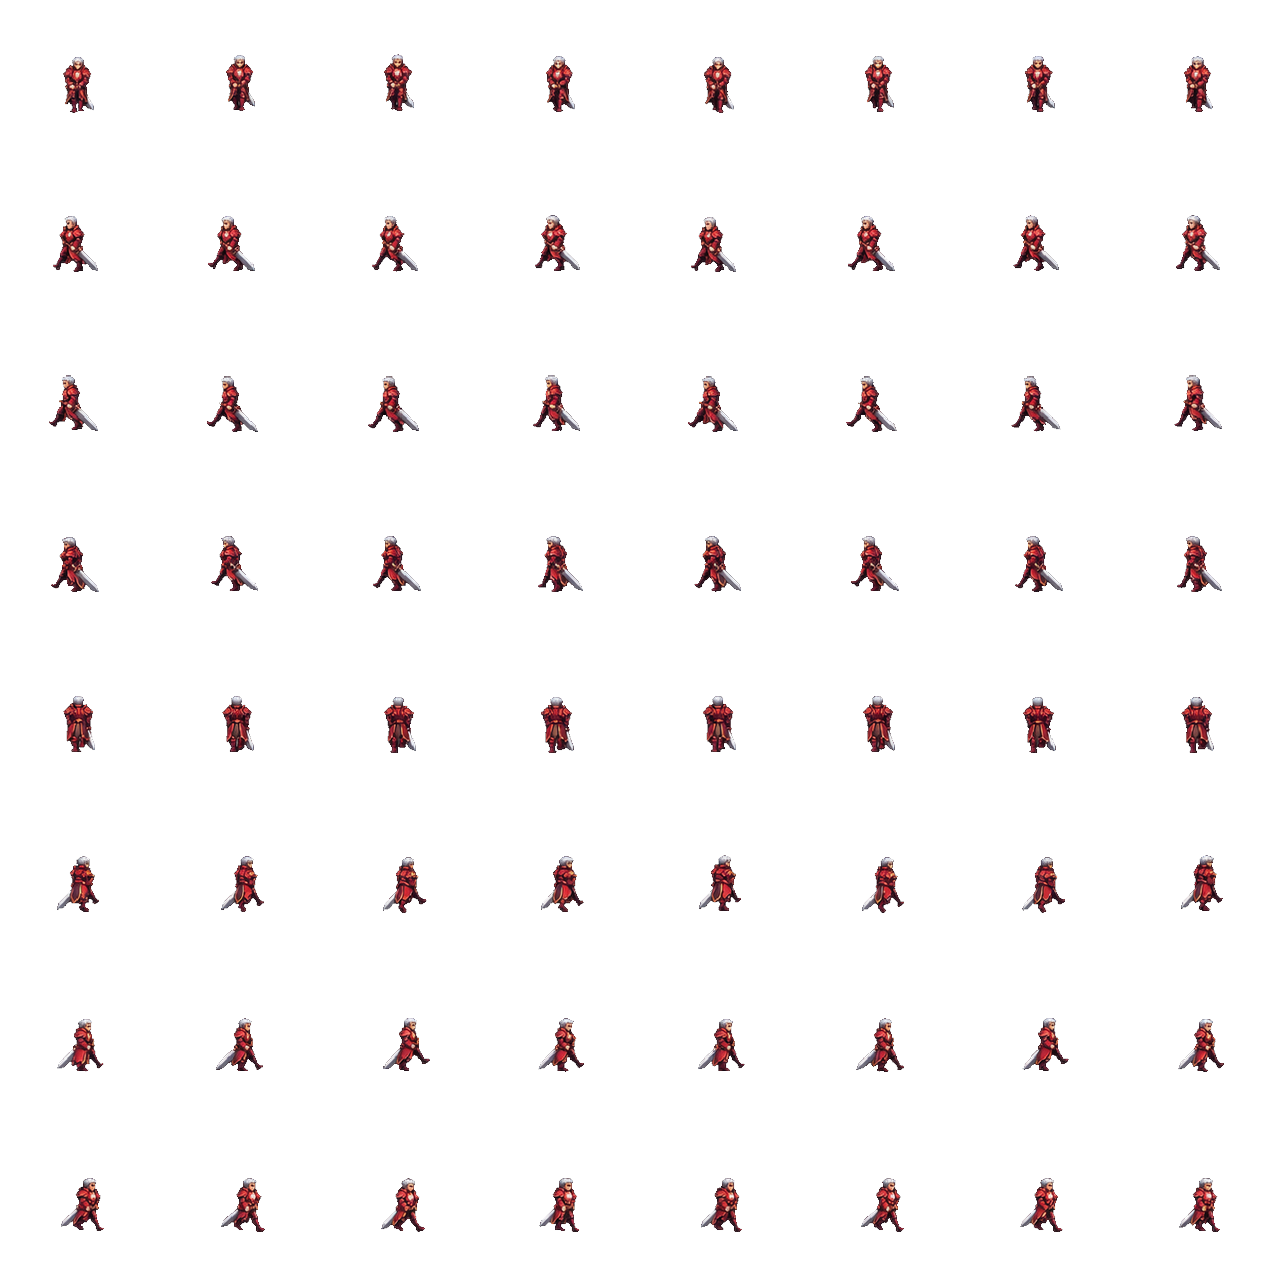
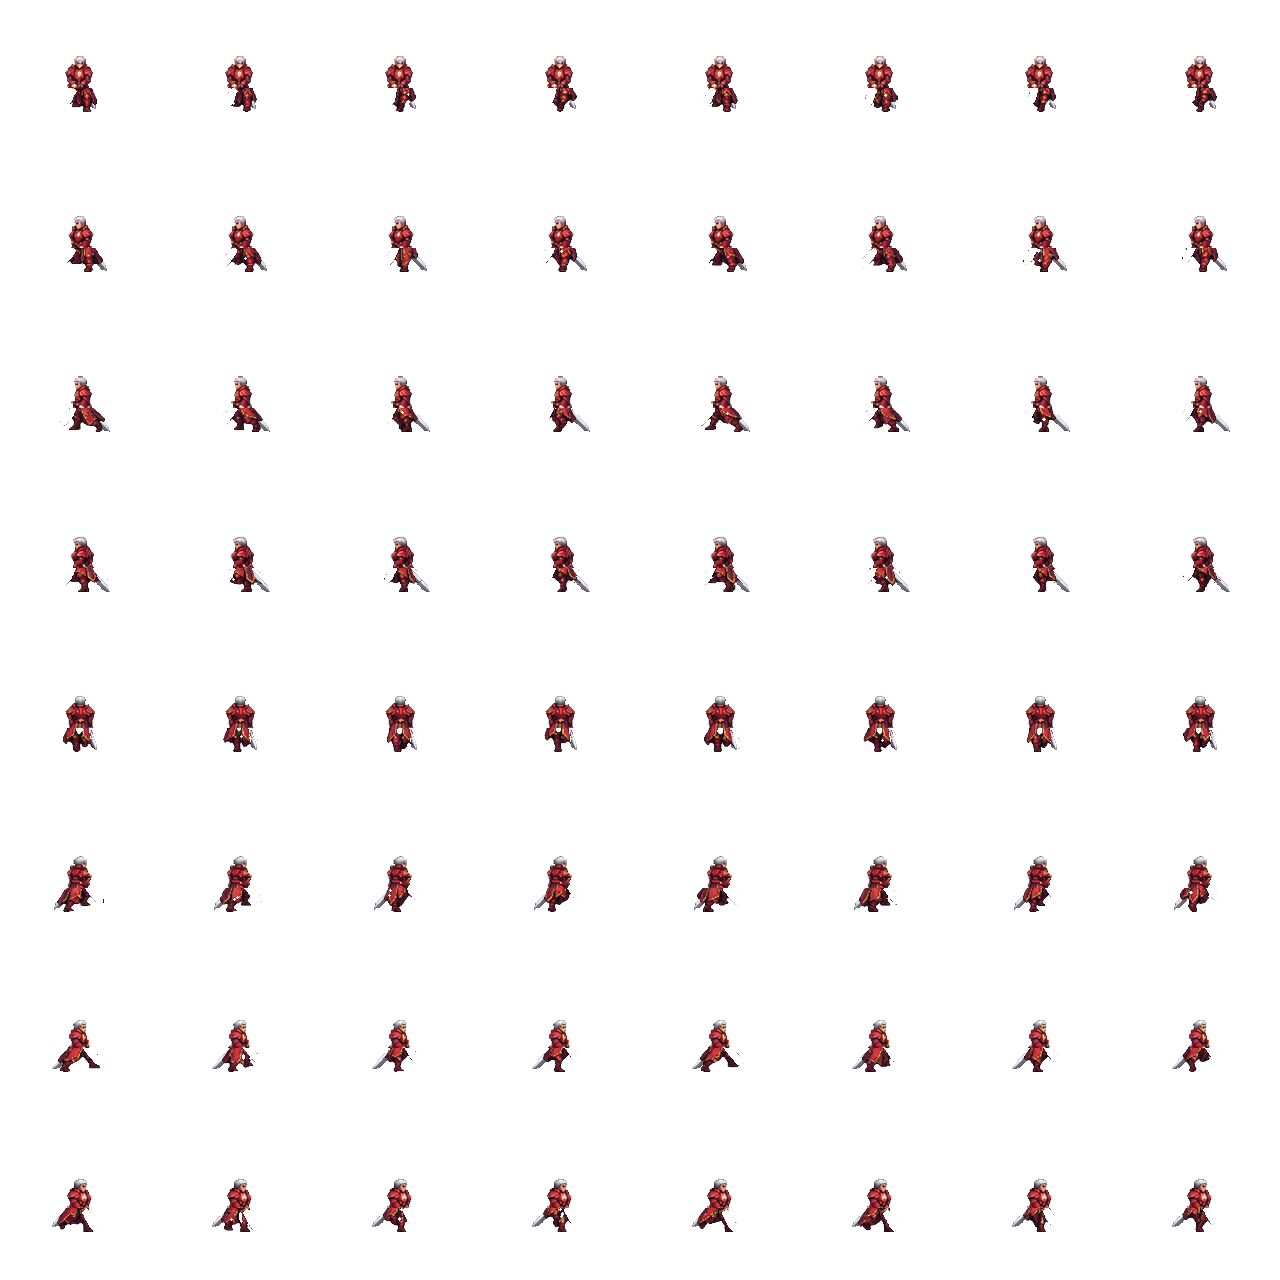
Stabilize warrior torso and restore alternating walking leg poses

diff --git a/tools/walking.html b/tools/walking.html
@@ -1,4 +1,4 @@
-<!doctype html><html lang="ko"><head><meta charset="utf-8"><meta name="viewport" content="width=device-width,initial-scale=1"><title>8방향 걷기 미리보기</title><style>body{background:#17231a;color:#ebe0c5;font:14px sans-serif;margin:24px}canvas{max-width:100%;height:auto;border:1px solid #685936;image-rendering:pixelated}button,input{margin:10px;color:inherit;background:#28332a;padding:8px;border:1px solid #7a7153}p{color:#aab8a1}</style></head><body><h2>직업별 8방향 걷기</h2><p>작업한 원본 이미지 / 8방향 · 8프레임 걷기</p><button id="pause">일시정지</button><label>보행 속도 <input id="speed" type="range" min="0.3" max="1.8" value="1" step="0.1"></label><canvas id="preview" width="1200" height="560"></canvas><script type="module">
+<!doctype html><html lang="ko"><head><meta charset="utf-8"><meta name="viewport" content="width=device-width,initial-scale=1"><title>8방향 걷기 미리보기</title><style>body{background:#17231a;color:#ebe0c5;font:14px sans-serif;margin:24px}canvas{max-width:100%;height:auto;border:1px solid #685936;image-rendering:pixelated}button,input{margin:10px;color:inherit;background:#28332a;padding:8px;border:1px solid #7a7153}p{color:#aab8a1}</style></head><body><h2>직업별 8방향 걷기</h2><p>작업한 원본 이미지 / 8방향 · 8프레임 걷기</p><button id="pause">일시정지</button><label>보행 속도 <input id="speed" type="range" min="0.3" max="1.8" value="1" step="0.1"></label><canvas id="preview" width="1200" height="700"></canvas><script type="module">
 import { LOOKS, drawHumanoid } from '../js/game/sprites.js';
 import { preloadHeroArt, preloadHeroActions } from '../js/game/hero-sheets.js';
 import { CLASS_ORDER, CLASSES } from '../js/data/classes.js';
@@ -6,7 +6,7 @@ const canvas=document.querySelector('#preview'),ctx=canvas.getContext('2d'),spee
 let paused=false,phase=0,last=0;
 document.querySelector('#pause').onclick=e=>{paused=!paused;e.target.textContent=paused?'다시 재생':'일시정지'};
 await preloadHeroArt();
-await Promise.all(CLASS_ORDER.map(classId=>preloadHeroActions({classId})));
+await Promise.all([...CLASS_ORDER,'warrior'].map(classId=>preloadHeroActions({classId})));
 const directions=Array.from({length:8},(_,i)=>({x:Math.cos(i*Math.PI/4),y:Math.sin(i*Math.PI/4)}));
-function frame(time){const dt=last?Math.min(.05,(time-last)/1000):0;last=time;if(!paused)phase+=dt*8*Number(speed.value);ctx.fillStyle='#273c2c';ctx.fillRect(0,0,1200,560);CLASS_ORDER.forEach((id,row)=>directions.forEach((facing,col)=>{const x=75+col*150,y=118+row*135;ctx.strokeStyle='#667258';ctx.beginPath();ctx.moveTo(x-50,y);ctx.lineTo(x+50,y);ctx.stroke();drawHumanoid(ctx,x,y,{classId:id,look:LOOKS[id],facing,walk:phase,moving:true,scale:2});ctx.fillStyle='#e0d1a6';ctx.font='12px sans-serif';ctx.textAlign='center';ctx.fillText(CLASSES[id].name,x,y+18)}));requestAnimationFrame(frame)}requestAnimationFrame(frame);
+function frame(time){const dt=last?Math.min(.05,(time-last)/1000):0;last=time;if(!paused)phase+=dt*8*Number(speed.value);ctx.fillStyle='#273c2c';ctx.fillRect(0,0,1200,700);[...CLASS_ORDER,'warrior'].forEach((id,row)=>directions.forEach((facing,col)=>{const x=75+col*150,y=118+row*135;ctx.strokeStyle='#667258';ctx.beginPath();ctx.moveTo(x-50,y);ctx.lineTo(x+50,y);ctx.stroke();drawHumanoid(ctx,x,y,{classId:id,look:LOOKS[id],facing,walk:phase,moving:true,scale:2});ctx.fillStyle='#e0d1a6';ctx.font='12px sans-serif';ctx.textAlign='center';ctx.fillText(CLASSES[id].name,x,y+18)}));requestAnimationFrame(frame)}requestAnimationFrame(frame);
 </script></body></html>
